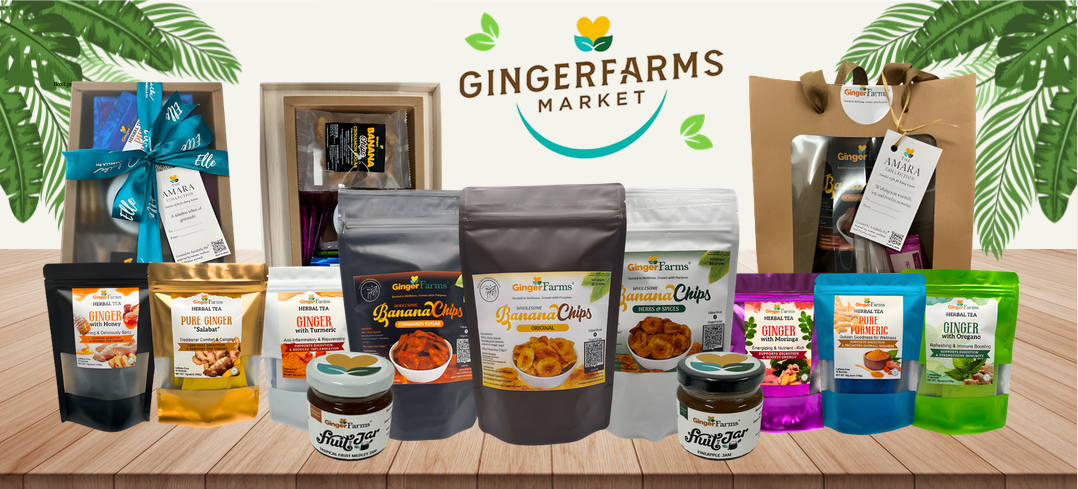
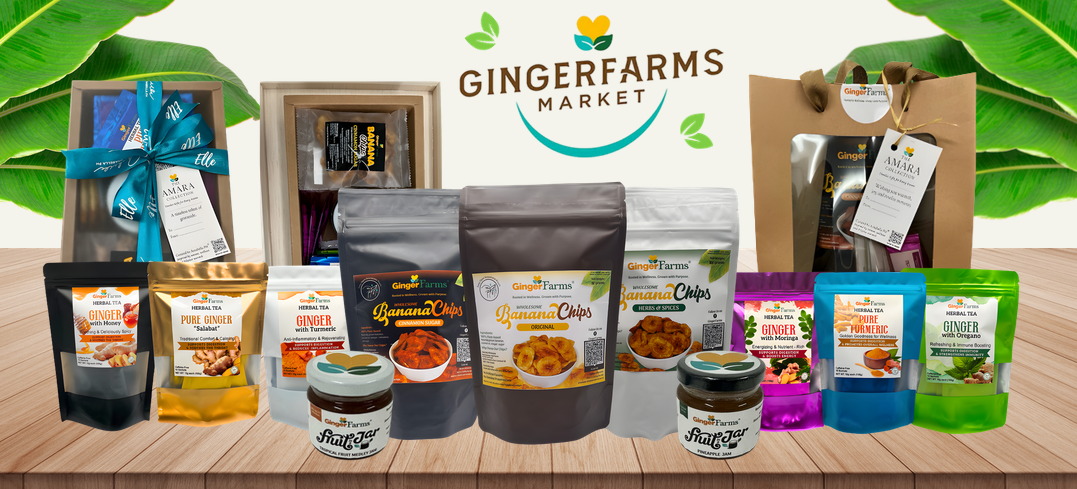
[1.3.1] - 2026-1-16
Changed
- Changed the banana leaves in the home page banner
- Changed "Assorted Sampler Pack" to just "Sampler Pack"
- Removed a random quotation mark ' " '

diff --git a/ProductPage/BananaChips.html b/ProductPage/BananaChips.html
@@ -205,7 +205,7 @@
                              alt="Banana Chips (30g) - Original, Herbs & Spices, Cinnamon Sugar" 
                              class="product-image gap1 bottomless">
                         <section class="product-content">
-                            <article class="product-title">Assorted Sampler Pack</article>
+                            <article class="product-title">Sampler Pack</article>
                             <hr>
                             <p class="product-subtitle">A curated selection of our three (3) most-loved flavors in one convenient bundle.</p>
                             <section class="PriceXlist threeItems">
@@ -240,7 +240,7 @@
                         <section class="product-content">
                             <article class="product-title">Banana Trio</article>
                             <hr>
-                            <p class="product-subtitle gap3 topless">The Banana Trio offers the perfect balance of sweet, spice, and savory to satisfy every craving."</p>
+                            <p class="product-subtitle gap3 topless">The Banana Trio offers the perfect balance of sweet, spice, and savory to satisfy every craving.</p>
                             <section class="PriceXlist threeItems">
                                 <section class="price">
                                     <p>₱220</p>
